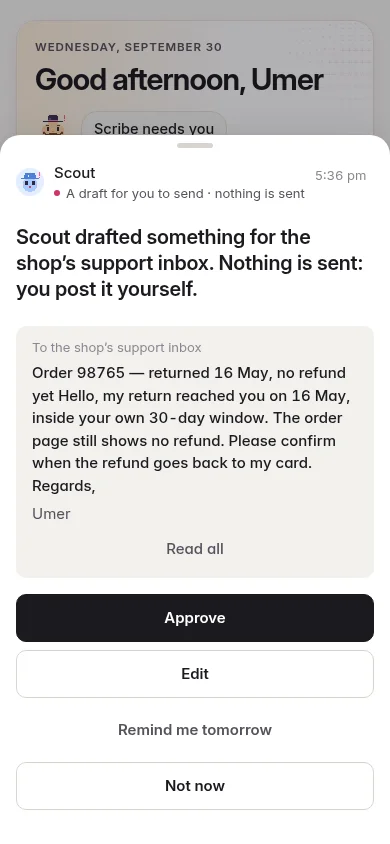
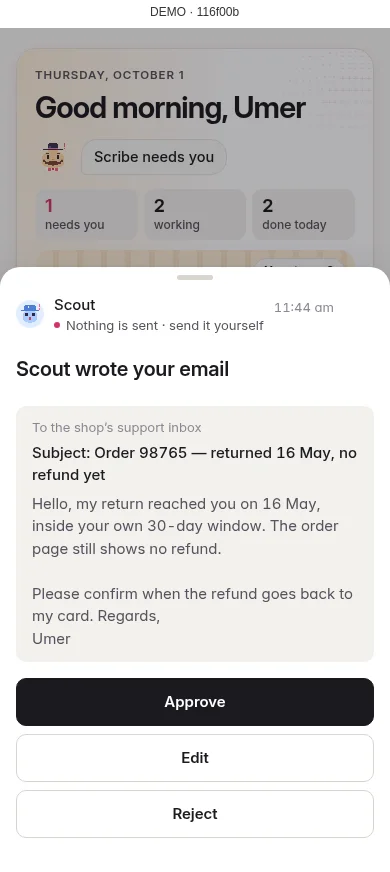
Make draft approval cards read like the message (#259)
* Fix draft card recipients, subjects and channel wording

* Refresh the demo draft approval card

* Route drafts the person sends through crew_draft in every helper's prompt

The first real email draft never reached a card: the helper followed older
job and skill lines that put drafts in a document. The shared helper prompt
now names crew_draft for emails, texts and social posts and says it wins over
those lines, and stops listing drafts as document material. The extra tool
description is dropped to keep the model-visible tool text in budget.

diff --git a/web/src/demo.ts b/web/src/demo.ts
@@ -53,9 +53,9 @@ const bots = [
 if (firstRun || variant === 'connect') for (const b of bots) Object.assign(b, { task: b.id === 'pip' && variant === 'connect' ? task(45, 'pip', "What's on this week?", 'needs_you') : null, step: undefined });
 
 const asks = [
-  { id: 7, bot: 'scribe', task_id: 43, kind: 'propose', at: now - 3 * min, member: 1, title: 'Scribe drafted a message for Aunty Sara', detail: {
-    words: 'Scribe drafted a message for Aunty Sara. Nothing is sent: you post it yourself.',
-    draft: { to: 'Aunty Sara' }, yes: 'Approve',
+  { id: 7, bot: 'scribe', task_id: 43, kind: 'propose', at: now - 3 * min, member: 1, title: 'Scribe wrote your text', detail: {
+    words: 'Scribe wrote your text.',
+    draft: { channel: 'text', to: 'Aunty Sara' }, yes: 'Approve',
     preview: { head: 'Draft for Aunty Sara', body: "Dear Aunty Sara, thank you so much for the lovely dinner on Sunday. Mum hasn't stopped talking about your biryani, and neither have I. Next time, it's at ours! With love, Umer" },
   } },
   { id: 10, bot: 'scout', task_id: null, kind: 'propose', at: now - 4 * min, member: 1, title: 'Scout would like to remember how to do this: Plan the week’s dinners, with a shopping list', detail: {
@@ -176,18 +176,18 @@ const state = {
         effect: 'send', press: true, spends: false,
         words: 'Scout wants to press “Start return” on shop.example, a site you signed it in to.',
         preview: { head: 'What Scout will press on shop.example', body: 'Espresso machine — delivered 12 May\nReturns are free within 30 days. Starting a return books a collection and tells the shop to expect the item.\nStart return' } } }]
-    : variant === 'chase' ? [{ id: 17, bot: 'scout', task_id: 48, kind: 'propose', at: now - 30_000, member: 1, title: 'Scout drafted something for the shop’s support inbox. Nothing is sent: you post it yourself.', detail: {
-        words: 'Scout drafted something for the shop’s support inbox. Nothing is sent: you post it yourself.',
-        draft: { to: 'the shop’s support inbox', path: 'files/chase-order-98765.md', sha: 'demo' }, yes: 'Approve',
-        preview: { head: 'Draft for the shop’s support inbox', body: 'Subject: Order 98765 — returned 16 May, no refund yet\n\nHello, my return reached you on 16 May, inside your own 30-day window. The order page still shows no refund.\n\nPlease confirm when the refund goes back to my card. Regards,\nUmer' } } }]
-    : variant === 'renewal' ? [{ id: 18, bot: 'scout', task_id: 49, kind: 'propose', at: now - 30_000, member: 1, title: 'Scout drafted something for the streaming service’s support inbox. Nothing is sent: you post it yourself.', detail: {
-        words: 'Scout drafted something for the streaming service’s support inbox. Nothing is sent: you post it yourself.',
-        draft: { to: 'the streaming service’s support inbox', path: 'files/cancel-family-plan.md', sha: 'demo' }, yes: 'Approve',
-        preview: { head: 'Draft for the streaming service’s support inbox', body: 'Subject: Streaming plan — please cancel before 14 June\n\nHello, my Streaming plan renews on 14 June at $18.99. Please cancel it from that date and confirm in writing that nothing further will be charged to my card.\n\nRegards,\nUmer' } } }]
-    : variant === 'paper' ? [{ id: 19, bot: 'scout', task_id: 50, kind: 'propose', at: now - 30_000, member: 1, title: 'Scout drafted something for the school office. Nothing is sent: you post it yourself.', detail: {
-        words: 'Scout drafted something for the school office. Nothing is sent: you post it yourself.',
-        draft: { to: 'the school office', path: 'files/reply-trip-form.md', sha: 'demo' }, yes: 'Approve',
-        preview: { head: 'Draft for the school office', body: 'Subject: Ayaan’s trip form — Friday\n\nHello, the signed trip form is in Ayaan’s bag this morning. He takes the packed-lunch option, and I can walk with the group if you are still short of adults.\n\nThank you,\nUmer' } } }]
+    : variant === 'chase' ? [{ id: 17, bot: 'scout', task_id: 48, kind: 'propose', at: now - 30_000, member: 1, title: 'Scout wrote your email.', detail: {
+        words: 'Scout wrote your email.',
+        draft: { channel: 'email', subject: 'Order 98765 — returned 16 May, no refund yet', to: 'the shop’s support inbox', path: 'files/chase-order-98765.md', sha: 'demo' }, yes: 'Approve',
+        preview: { head: 'Draft for the shop’s support inbox', body: 'Hello, my return reached you on 16 May, inside your own 30-day window. The order page still shows no refund.\n\nPlease confirm when the refund goes back to my card. Regards,\nUmer' } } }]
+    : variant === 'renewal' ? [{ id: 18, bot: 'scout', task_id: 49, kind: 'propose', at: now - 30_000, member: 1, title: 'Scout wrote your email.', detail: {
+        words: 'Scout wrote your email.',
+        draft: { channel: 'email', subject: 'Streaming plan — please cancel before 14 June', to: 'the streaming service’s support inbox', path: 'files/cancel-family-plan.md', sha: 'demo' }, yes: 'Approve',
+        preview: { head: 'Draft for the streaming service’s support inbox', body: 'Hello, my Streaming plan renews on 14 June at $18.99. Please cancel it from that date and confirm in writing that nothing further will be charged to my card.\n\nRegards,\nUmer' } } }]
+    : variant === 'paper' ? [{ id: 19, bot: 'scout', task_id: 50, kind: 'propose', at: now - 30_000, member: 1, title: 'Scout wrote your email.', detail: {
+        words: 'Scout wrote your email.',
+        draft: { channel: 'email', subject: 'Ayaan’s trip form — Friday', to: 'the school office', path: 'files/reply-trip-form.md', sha: 'demo' }, yes: 'Approve',
+        preview: { head: 'Draft for the school office', body: 'Hello, the signed trip form is in Ayaan’s bag this morning. He takes the packed-lunch option, and I can walk with the group if you are still short of adults.\n\nThank you,\nUmer' } } }]
     : variant === 'meals' ? [{ id: 20, bot: 'scout', task_id: 51, kind: 'permission', at: now - 30_000, member: 1, title: '', detail: {
         effect: 'spend', spends: true,
         words: 'Scout wants to place this order at grocer.example: Basmati rice 10 lb, Whole milk (1 gal) x2, Garlic, 2 kg. Total $43.10.',

diff --git a/test/moneyback.test.ts b/test/moneyback.test.ts
@@ -332,19 +332,20 @@ test('starting a return: the press asks first, on a card naming the button, the 
 
 test('the chase email is a draft in the person\u2019s name: the yes records the approval, and nothing is sent', async () => {
   const { db, crew, done } = setup();
-  const chase = 'Subject: Order 98765 — returned 16 May, no refund yet.\n\nHello, my return reached you on 16 May, inside your own 30-day window. The order page still shows no refund. Please confirm the payment. Regards,';
+  const chase = 'Hello, my return reached you on 16 May, inside your own 30-day window. The order page still shows no refund. Please confirm the payment. Regards,';
   const { task: t } = (await crew.post('scout', 'The shop is past its own window. Write the chase email, put it in front of me, and ask permission before anything more. '
     + `[tool crew_write {"path":"files/chase-order-98765.md","content":"${chase.replace(/\n/g, '\\n')}"}] `
-    + '[tool crew_draft {"path":"files/chase-order-98765.md","to":"the shop\u2019s support inbox"}] '
+    + '[tool crew_draft {"path":"files/chase-order-98765.md","channel":"email","subject":"Order 98765 — returned 16 May, no refund yet","to":"the shop\u2019s support inbox"}] '
     + '[tool crew_outcome {"worked": false, "seen": "The chase email is a draft on your card; reading it and sending it is yours."}]'))!;
   await until('working', () => crew.sessionOf('scout'));
   await until('the draft card', () => db.get("SELECT * FROM asks WHERE bot = 'scout' AND kind = 'propose' AND state = 'open'"));
   const ask = db.get("SELECT * FROM asks WHERE bot = 'scout' AND kind = 'propose' AND state = 'open'")!;
-  assert.match(ask.title, /drafted something for the shop.s support inbox/);
-  assert.match(ask.title, /Nothing is sent: you post it yourself/);
+  assert.match(ask.title, /wrote your email/);
+  assert.doesNotMatch(ask.title, /post it yourself/);
   const d = JSON.parse(ask.detail);
   assert.equal(d.draft.to, 'the shop\u2019s support inbox');
-  assert.match(d.preview.body, /Order 98765/, 'the card shows the whole draft before any yes');
+  assert.match(d.draft.subject, /Order 98765/, 'the email subject is separate');
+  assert.match(d.preview.body, /Hello, my return/, 'the card shows only the message');
   const view = crew.snapshot().asks.find((a: any) => a.id === ask.id)!;
   assert.equal(view.detail.yes, 'Approve', 'the yes approves the draft; it is never a send');
   await crew.answer(ask.id, { answer: 'allow' });
@@ -401,16 +402,16 @@ test('Home lists the renewal job with the money-back three, and says what it wai
 
 test('a renewal caught ahead of the bill: the warning plus a cancellation email that stays a draft', async () => {
   const { db, crew, done } = setup();
-  const letter = 'Subject: Family plan — please cancel before 14 June\n\nHello, my Family plan renews on 14 June at $18.99. Please cancel it from that date and confirm in writing that nothing further will be charged to my card. Regards, Umer';
+  const letter = 'Hello, my Family plan renews on 14 June at $18.99. Please cancel it from that date and confirm in writing that nothing further will be charged to my card. Regards, Umer';
   const { task: t } = (await crew.post('scout', 'ask permission: my streaming plan renews 14 June, write the cancellation and put it in front of me. '
     + `[tool crew_write {"path":"files/cancel-family-plan.md","content":"${letter.replace(/\n/g, '\\n')}"}] `
-    + '[tool crew_draft {"path":"files/cancel-family-plan.md","to":"the streaming service’s support inbox"}] '
+    + '[tool crew_draft {"path":"files/cancel-family-plan.md","channel":"email","subject":"Family plan — please cancel before 14 June","to":"the streaming service’s support inbox"}] '
     + '[tool crew_outcome {"worked": false, "seen": "Your Family plan renews 14 June at $18.99, ten days ahead; the cancellation is a draft on your card, so reading it and sending it is yours."}]'))!;
   await until('working', () => crew.sessionOf('scout'));
   await until('the draft card', () => db.get("SELECT * FROM asks WHERE bot = 'scout' AND kind = 'propose' AND state = 'open'"));
   const ask = db.get("SELECT * FROM asks WHERE bot = 'scout' AND kind = 'propose' AND state = 'open'")!;
-  assert.match(ask.title, /drafted something for the streaming service.s support inbox/);
-  assert.match(ask.title, /Nothing is sent: you post it yourself/);
+  assert.match(ask.title, /wrote your email/);
+  assert.doesNotMatch(ask.title, /post it yourself/);
   const d = JSON.parse(ask.detail);
   assert.match(d.preview.body, /renews on 14 June at \$18\.99/, 'the card holds the letter ahead of any yes');
   assert.match(d.preview.body, /confirm in writing/, 'it asks for the line that protects the person');

diff --git a/test/ui.test.ts b/test/ui.test.ts
@@ -178,21 +178,54 @@ test('a helper\'s draft waits in Needs you, named for who it goes to; the row\'s
   crew.recruit('scout', 'Scout', 'person');
   await crew.post('scout', 'Draft the reply on a card in front of me. '
     + '[tool crew_write {"path":"files/reply-trip-form.md","content":"Hello, the signed trip form is in Ayaan\'s bag this morning. Thank you, Umer"}] '
-    + '[tool crew_draft {"path":"files/reply-trip-form.md","to":"the school office"}]');
+    + '[tool crew_draft {"path":"files/reply-trip-form.md","channel":"email","subject":"Ayaan’s trip form — Friday","to":"the school office"}]');
   await until('the draft ask in the served view', () => crew.snapshot().asks.some((a: any) => a.kind === 'propose' && a.detail.draft));
   const s: Json = crew.snapshot();
   const ask = s.asks.find((a: any) => a.kind === 'propose' && a.detail.draft)!;
   assert.equal(ask.detail.draft.to, 'the school office', 'askView passes the draft through; without it Home drops the row');
   assert.equal(ask.detail.yes, 'Approve', 'the yes approves the draft; it is never a send');
   const c = A.card(ask, s);
-  assert.equal(c.head, 'Scout drafted a message for the school office', 'the card says what it is and who it is for, never "learned something"');
-  assert.deepEqual(c.choices.map((x: any) => x.label), ['Approve', 'Not now'], 'the no-send approval stays');
+  assert.equal(c.head, 'Scout wrote your email', 'the card says what it is and who it is for, never "learned something"');
+  assert.deepEqual(c.choices.map((x: any) => x.label), ['Approve', 'Reject'], 'the no-send approval stays');
   assert.match(c.preview?.body ?? '', /trip form/, 'the sheet the row opens shows the words');
   assert.equal(c.draftText, "Hello, the signed trip form is in Ayaan's bag this morning. Thank you, Umer", 'the words to change are the draft itself, not a tidied copy');
   const rows = A.needsYou(s);
-  assert.equal(rows.find((r: any) => r.id === ask.id)?.head, 'Scout drafted a message for the school office', 'the draft is a Needs-you row, ready to tap');
+  assert.equal(rows.find((r: any) => r.id === ask.id)?.head, 'Scout wrote your email', 'the draft is a Needs-you row, ready to tap');
   assert.ok(!rows.some((r: any) => /learned something/.test(r.head)));
   done();
+});
+
+test('draft cards keep the recipient, email subject and exact message separate across channels', async () => {
+  const { setup: lab, settled } = await import('./lab.ts');
+  const { crew, db, done } = lab();
+  crew.onboard('sir');
+  crew.recruit('scribe', 'Scribe', 'person');
+  try {
+    for (const [channel, to, subject, message] of [
+      ['email', 'returns@shop.example', 'Order 98765 refund', 'Hello,\n\nPlease confirm my refund.\n\nThanks,\nUmer'],
+      ['email', 'office@school.example', 'Friday trip', 'Hello,\n\nThe form is in the bag.\n\nThanks,\nUmer'],
+      ['text', 'Sara', '', 'Can we meet at 6?'],
+      ['post', 'X', '', 'One small win today.\n\nThe seedlings are up. #garden'],
+    ]) {
+      const tool = (name: string, args: Json) => `[tool ${name} ${JSON.stringify(args)}]`;
+      const { task } = (await crew.post('scribe', 'Recommended: X1. Draft only. This is the TASK TITLE. '
+        + tool('crew_write', { path: 'files/message.md', content: message }) + ' '
+        + tool('crew_draft', { path: 'files/message.md', channel, to, ...(subject ? { subject } : {}) })))!;
+      await settled(db, task);
+      const state = crew.snapshot();
+      const ask = state.asks.find((a: Json) => a.detail.draft?.to === to)!;
+      const c = A.card(ask, state);
+      assert.equal(c.head, `Scribe wrote your ${channel}`);
+      assert.equal(c.words, c.head, 'the headline never repeats job text or recipient');
+      assert.equal(c.draftTo, to);
+      assert.equal(c.draftSubject, subject || undefined);
+      assert.equal(c.preview?.body, message, 'paragraphs, first line and hashtags stay intact');
+      assert.equal(c.draftText, message, 'Edit starts with exactly the message on the card');
+      assert.equal(c.status, `Nothing is sent · ${channel === 'post' ? 'post' : 'send'} it yourself`);
+      assert.deepEqual(c.choices.map((x) => x.label), ['Approve', 'Reject']);
+    }
+    assert.equal(crew.snapshot().asks.filter((a: Json) => a.detail.draft).length, 4, 'two email cards with the same short headline both arrive');
+  } finally { done(); }
 });
 
 test("a job proposal card names the helper's proposed job, never a memory heading", async () => {

diff --git a/src/crew.ts b/src/crew.ts
@@ -80,7 +80,6 @@ export function quietNow(quiet: string | null | undefined, at = new Date()) {
 }
 
 const sha = (s: string) => createHash('sha256').update(s).digest('hex');
-/** A draft in the person's name fits on its card whole, so what they approve (or change) is all of it. */
 const DRAFT_CAP = 20_000;
 const clean = (s: unknown, n: number) => String(s ?? '').replace(/\s+/g, ' ').trim().slice(0, n);
 /** What each batch item hears: its one item and the shared question. The parent's own prompt stays out of it,
@@ -1996,16 +1995,17 @@ export class Crew {
           const change = disk.remember(this.cfg, { bot: everyone ? null : botId }, String(p.text ?? ''), String(p.replaces ?? ''));
           this.db.event('memory.learned', botId, { task: task(), text: change.added.slice(2, 202), ...(everyone ? { everyone } : {}), ...change });
         }),
-      tool('crew_draft', 'Put a draft that would go out in the person\'s name (a reply, a post, an email) in front of them on a card. Nothing is ' +
-        'sent either way: they post it themselves if they approve. `path`: the draft in your folder; `to`: where it would go ("muxr issue #208").',
-        { path: Type.String(), to: Type.String() }, (p) => {
+      tool('crew_draft', 'Show ONE finished message for approval; nothing is sent. `path`: a file containing ONLY the message body, with its line breaks, no subject, headings, variants or planning notes. ' +
+        '`channel`: email, text, post (social), or reply (a site). `to`: the actual recipient name/address or site, NEVER a job title. `subject`: required for email, separate from the body.',
+        { path: Type.String(), channel: Type.Union(['email', 'text', 'post', 'reply'].map((x) => Type.Literal(x))), to: Type.String(), subject: Type.Optional(Type.String()) }, (p) => {
           const full = disk.insideBot(this.cfg, botId, String(p.path ?? ''));
           if (!existsSync(full)) throw new Error(`no file at ${p.path}`);
-          const text = readFileSync(full, 'utf8').trim(), to = clean(p.to, 80), b = this.bot(botId)!;
+          const text = readFileSync(full, 'utf8').trim(), to = clean(p.to, 80), channel = String(p.channel), subject = clean(p.subject, 160);
+          if (!to || !['email', 'text', 'post', 'reply'].includes(channel) || (channel === 'email' && !subject)) throw new Error('give the channel, recipient and email subject separately');
           if (!text) throw new Error('the draft is empty');
           if (text.length > DRAFT_CAP) throw new Error(`the draft is over ${DRAFT_CAP} characters; shorten it`);
-          return this.propose(botId, `${b.display} drafted something for ${to}. Nothing is sent: you post it yourself.`,
-            { draft: { to, path: full.slice(disk.botDir(this.cfg, botId).length + 1), sha: sha(text) }, preview: { head: `Draft for ${to}`, body: text } });
+          return this.propose(botId, `${this.bot(botId)!.display} wrote your ${channel}.`,
+            { draft: { channel, to, subject, path: full.slice(disk.botDir(this.cfg, botId).length + 1), sha: sha(text) }, preview: { body: text } });
         }),
       tool('crew_verify', 'Have Crewhouse itself check a fix you propose to a git checkout in your folder: it applies only the check (`tests`, the ' +
         'paths in the patch that test the fix) to `base` and runs `command`, which must fail; then the whole patch, which must pass; it runs in a ' +
@@ -2155,7 +2155,7 @@ export class Crew {
   /** A suggestion card: nothing changes until the person says yes, and the bot carries on meanwhile. */
   private propose(botId: string, title: string, detail: Row) {
     const t = this.activeTask(botId);
-    if (!this.db.get("SELECT 1 FROM asks WHERE bot = ? AND kind = 'propose' AND state = 'open' AND title = ?", botId, title)) {
+    if (!this.db.get("SELECT 1 FROM asks WHERE bot = ? AND kind = 'propose' AND state = 'open' AND title = ? AND COALESCE(json_extract(detail, '$.draft'), '') = ?", botId, title, detail.draft ? JSON.stringify(detail.draft) : '')) {
       this.openAsk(botId, undefined, title, { ...detail, task: t?.id }, 'propose');
     }
     return { asked: true, note: 'The person sees your suggestion on a card. Carry on; nothing changes unless they say yes.' };

diff --git a/src/bots.ts b/src/bots.ts
@@ -417,7 +417,7 @@ export function systemPrompt(cfg: Config, id: string, chief: boolean) {
     'which the app asks for you. If a tool call is refused, adapt and carry on, or say plainly what you need.\n' +
     '## How you answer\n' +
     '- Lead with the answer or the result, in one or two sentences. Nothing before it: no restating the request, no preamble.\n' +
-    '- Then at most five short bullets. Anything longer than about 120 words, or anything the person will keep, use or edit (a plan, a report, drafts, a table), goes in a document with crew_document; your reply is its headline and what to look at first.\n' +
+    '- Then at most five short bullets. Anything longer than about 120 words, or anything the person will keep, use or edit (a plan, a report, a table), goes in a document with crew_document; your reply is its headline and what to look at first.\n' +
     '- Write for a chat bubble: plain sentences, "- " bullets, **bold** on one phrase at most. No headings, tables, code or links in chat; name a source in words ("Stripe\'s pricing page") and keep links in the document.\n' +
     '- Be decisive: recommend one option and say why in a clause. When you must assume something, say it in a few words ("assuming two adults") and carry on.\n' +
     '- A caveat only where being wrong costs the person: money, health, legal, safety, a price or date they will act on, or something about to be sent, paid or deleted. Then one specific line: what to check, and where. Never "I could not verify", "I did not test", "unverified" or "as an AI". Where you looked and what you skipped goes at the end of the document, not in chat.\n' +
@@ -426,5 +426,5 @@ export function systemPrompt(cfg: Config, id: string, chief: boolean) {
     (chief ? 'Crew tools for the crew. Calendar and mail: read the person\'s own and answer yourself; crew_connect if it isn\'t connected; changes go on a card or to a helper.' :
       `The person's own folders are in ${homedir()} (Documents, Pictures, Downloads…). Your shell can't see them; reach them with read and write, ` +
       'or crew_copy to put a copy of something you made there. Crewhouse asks the person first, so just go ahead and call the tool.\n' +
-      'Your crew tools: crew_report (a one-line progress note), crew_deliver (register a finished file), crew_workbook (a finished spreadsheet, which Crewhouse writes itself from your spec — never make the file yourself), crew_document (a finished document, same rule), crew_copy (a copy into the person\'s folders), crew_remember (a lasting preference of the person), crew_learn (ask to keep a skill when the person explicitly says to follow a way of working from now on, even the first time, or after doing the same kind of job at least twice; never for an ordinary one-off).');
+      'Your crew tools: crew_report (a one-line progress note), crew_deliver (register a finished file), crew_workbook (a finished spreadsheet, which Crewhouse writes itself from your spec — never make the file yourself), crew_document (a finished document, same rule), crew_draft (an email, text or social post they send: only the finished message in `files/`, its `channel`, real recipient as `to`, an email\'s `subject`; never a document, whatever a job or skill says), crew_copy (a copy into the person\'s folders), crew_remember (a lasting preference of the person), crew_learn (ask to keep a skill when the person explicitly says to follow a way of working from now on, even the first time, or after doing the same kind of job at least twice; never for an ordinary one-off).');
 }

diff --git a/web/src/adapter.ts b/web/src/adapter.ts
@@ -24,7 +24,7 @@ export type Card = {
   /** One ask-card layout for every kind (§4.4): the kind changes only the status line under the helper's name,
    *  the evidence block and the button words. `evidence` picks the sunken block — a form's or a job's
    *  label-over-value lines, or a draft's to/subject/body — an order is a `review`, anything else a plain preview. */
-  status: string; evidence?: 'lines' | 'draft'; draftTo?: string;
+  status: string; evidence?: 'lines' | 'draft'; draftTo?: string; draftSubject?: string;
   /** A draft's own words, unscrubbed: the person may change them before Approve, and their version is what is kept. */
   draftText?: string;
 };
@@ -567,12 +567,17 @@ export function card(a: Json, state: Json): Card {
       preview: { head: `${crewName(state, d.job.bot)}'s job`, body: labels.map((label, i) => `${label}: ${plain(d.job[keys[i]])}`).join('\n\n') },
       choices: [{ label: 'Use it', body: { answer: 'allow', scope: 'once' }, primary: true }, { label: 'Not now', body: { answer: 'deny' } }] };
   }
+  if (a.kind === 'propose' && d.draft) {
+    const head = `${name} wrote your ${d.draft.channel}`;
+    const body = String(d.preview?.body ?? '').trim();
+    return { ...base, kind: 'ok', status: `Nothing is sent · ${d.draft.channel === 'post' ? 'post' : 'send'} it yourself`, evidence: 'draft',
+      draftTo: plain(d.draft.to), draftSubject: plain(d.draft.subject) || undefined, draftText: body, head, words: head, preview: { body },
+      choices: [{ label: 'Approve', body: { answer: 'allow', scope: 'once' }, primary: true }, { label: 'Reject', body: { answer: 'deny' } }] };
+  }
   if (a.kind === 'propose') {
     // A suggestion: a skill a helper would like to keep, or a new personality from Chief. Nothing changes without a yes.
-    // A helper's draft is a message in the person's name: the card says who it's for, and approving never sends it.
-    return { ...base, kind: 'ok', status: d.draft ? 'A draft for you to send · nothing is sent' : 'Would like to remember this', evidence: d.draft ? 'draft' : undefined, draftTo: d.draft ? plain(d.draft.to) : undefined,
-      draftText: d.draft ? String(d.preview?.body ?? '').trim() || undefined : undefined,
-      head: d.draft ? `${name} drafted a message for ${plain(d.draft.to)}` : a.bot === 'chief' ? 'Chief has a suggestion' : `${name} learned something`, words: plain(d.words ?? `${name} has a suggestion.`),
+    return { ...base, kind: 'ok', status: 'Would like to remember this',
+      head: a.bot === 'chief' ? 'Chief has a suggestion' : `${name} learned something`, words: plain(d.words ?? `${name} has a suggestion.`),
       preview: d.preview ? { head: d.preview.head ? plain(d.preview.head) : undefined, body: plain(d.preview.body ?? '') } : undefined,
       choices: [{ label: d.yes ? plain(d.yes) : a.bot === 'chief' ? 'Yes, change it' : 'Yes, keep it', body: { answer: 'allow', scope: 'once' }, primary: true }, { label: 'Not now', body: { answer: 'deny' } }] };
   }

diff --git a/test/support.test.ts b/test/support.test.ts
@@ -29,13 +29,13 @@ test('Chief sees what each template knows, and a drafted reply waits on a card t
   const dir = join(disk.botDir(cfg, 'desk'), 'files', 'support', '208');
   mkdirSync(dir, { recursive: true });
   writeFileSync(join(dir, 'reply.md'), 'Thanks for the two-day log. Headless, Herdr reports idle, not done (apps/host/src/x.ts:12@abc).\n');
-  const draft = call('crew_draft', { path: 'files/support/208/reply.md', to: 'muxr issue #208' });
+  const draft = call('crew_draft', { path: 'files/support/208/reply.md', channel: 'reply', to: 'muxr issue #208' });
   const card = () => db.get("SELECT * FROM asks WHERE bot = 'desk' AND kind = 'propose' AND state = 'open'");
   const t = (await crew.post('desk', `draft it ${draft}`))!.task;
   await settled(db, t);
   const view = crew.snapshot().asks.find((a: any) => a.id === card()!.id)!;
   assert.equal(view.detail.yes, 'Approve');
-  assert.match(view.detail.words, /^Desk drafted something for muxr issue #208\. Nothing is sent/);
+  assert.match(view.detail.words, /^Desk wrote your reply/);
   assert.match(view.detail.preview.body, /Herdr reports idle/);
   await crew.answer(card()!.id, { answer: 'deny' });
   assert.equal(events(db, 'draft.rejected')[0].to, 'muxr issue #208');
@@ -60,7 +60,7 @@ test('the person can change a draft before Approve: their words are the ones kep
   const card = () => db.get("SELECT * FROM asks WHERE bot = 'desk' AND kind = 'propose' AND state = 'open'");
   const draft = async (words: string) => {
     writeFileSync(file, words);
-    await settled(db, (await crew.post('desk', `draft it ${call('crew_draft', { path: 'files/reply.md', to: 'the school office' })}`))!.task);
+    await settled(db, (await crew.post('desk', `draft it ${call('crew_draft', { path: 'files/reply.md', channel: 'text', to: 'the school office' })}`))!.task);
     return card()!.id;
   };
   let id = await draft('Hello, the form is in the bag.\n');
@@ -241,7 +241,7 @@ test('the validator checks a run against crewd\'s record: issues read, citations
   };
   const run = async (n: number, fetch: string) => {
     const f = (p: string) => call('crew_deliver', { path: `files/support/${n}/${p}` });
-    const t = (await crew.post('desk', `${fetch} ${f('triage.md')} ${f('reply.md')} ${call('crew_draft', { path: `files/support/${n}/reply.md`, to: `app issue #${n}` })}`))!.task;
+    const t = (await crew.post('desk', `${fetch} ${f('triage.md')} ${f('reply.md')} ${call('crew_draft', { path: `files/support/${n}/reply.md`, channel: 'reply', to: `app issue #${n}` })}`))!.task;
     await settled(db, t);
     return t;
   };

diff --git a/mobile/App.tsx b/mobile/App.tsx
@@ -896,12 +896,10 @@ function AskEvidence({ c, open, readAll }: { c: A.Card; open: boolean; readAll?:
       : <T key={i}>{l}</T>;
   })}</View>;
   if (c.evidence === 'draft') {
-    const at = body.indexOf('\n');
     return <View style={[s.ev, { backgroundColor: t.sunken }]}>
       {!!c.draftTo && <T tone="mute" style={s.small}>To {c.draftTo}</T>}
-      <T style={{ fontWeight: '500' }}>{(at < 0 ? body : body.slice(0, at)).replace(/^Subject: /, '')}</T>
-      <T tone="ink2" lines={open ? undefined : 4}>{(at < 0 ? '' : body.slice(at + 1)).trim()}</T>
-      {!open && readAll}
+      {!!c.draftSubject && <T style={{ fontWeight: '500' }}>Subject: {c.draftSubject}</T>}
+      <ScrollView style={{ maxHeight: 240 }} nestedScrollEnabled><T tone="ink2">{body}</T></ScrollView>
     </View>;
   }
   if (c.lines) return <View style={[s.ev, { backgroundColor: t.sunken }]}>{c.lines.map((l, i) =>
@@ -1054,9 +1052,10 @@ function AskSheet({ c, who, chiefSays, canAct, onClose }: { c: A.Card; who: A.He
           {!!chiefSays && <View style={s.row}><Face who="chief" size={20} /><T tone="ink2" style={{ flex: 1 }}><Text style={s.b}>Chief:</Text> {A.plain(chiefSays)}</T></View>}
           {oops && <T tone="pinkInk" style={s.small}>That didn't go through. Try again.</T>}
           {canAct ? <>
+            {c.evidence === 'draft' && yes && <Btn go big label={yes.label} disabled={edit.empty} onPress={() => act(edit.yes(yes.body))} />}
             {edit.can && <Btn big label={edit.editing ? 'Use the original' : 'Edit'} onPress={edit.toggle} />}
             {rest.map((x) => <Btn key={x.label} big label={x.label} onPress={() => act(x.body)} />)}
-            {yes && <Btn go big label={yes.label} disabled={edit.empty} onPress={() => act(edit.yes(yes.body))} />}
+            {c.evidence !== 'draft' && yes && <Btn go big label={yes.label} disabled={edit.empty} onPress={() => act(edit.yes(yes.body))} />}
           </> : <Btn big label="Close" onPress={onClose} />}
           {always && canAct && <View style={{ borderTopWidth: StyleSheet.hairlineWidth, borderTopColor: t.line, paddingTop: 10 }}><Btn ghost big label={always.label} onPress={() => act(always.body)} /></View>}
           {c.kind === 'spend' && <T tone="mute" style={[s.small, { textAlign: 'center' }]}>Anything that costs money asks you every time.</T>}

diff --git a/src/openclaw/runtime.ts b/src/openclaw/runtime.ts
@@ -27,7 +27,6 @@ const ME = 'm1';
 /** The engine-side name of a Crewhouse tool and back: only the shell differs. */
 const crewName = (tool: string) => tool === 'shell' ? 'bash' : tool;
 
-// Model-visible tools: `shell` avoids the engine rewriting `bash` to its own exec before the gate.
 const args = { type: 'object', properties: { args: { type: 'array', items: { type: 'string' } } }, required: ['args'], additionalProperties: false };
 const SCHEMAS: Record<string, object> = {
   shell: { type: 'object', properties: { command: { type: 'string' } }, required: ['command'], additionalProperties: false },
@@ -44,6 +43,7 @@ const SCHEMAS: Record<string, object> = {
       items: { type: 'object', additionalProperties: true }, minItems: 1 },
   }, required: ['name', 'blocks'], additionalProperties: false },
   crew_report: { type: 'object', properties: { text: { type: 'string' } }, required: ['text'], additionalProperties: false },
+  crew_draft: { type: 'object', properties: { path: { type: 'string' }, channel: { type: 'string', enum: ['email', 'text', 'post', 'reply'] }, to: { type: 'string' }, subject: { type: 'string' } }, required: ['path', 'channel', 'to'], additionalProperties: false },
   crew_batch: { type: 'object', properties: { question: { type: 'string' }, items: { type: 'array', items: { type: 'string' } } }, required: ['question', 'items'], additionalProperties: false },
 };
 const ABOUT: Record<string, string> = {
@@ -63,7 +63,6 @@ export const TOOLS: ToolSpec[] = ['shell', 'browser', 'calendar', 'mail', 'crew_
 ].map((name) => ({ name, description: ABOUT[name] ?? `Crewhouse ${name.slice(5).replaceAll('_', ' ')}. The person sees the result in their crew.`,
   parameters: SCHEMAS[name] ?? { type: 'object', additionalProperties: true } }));
 
-/** Crewhouse's engine config, merged under the kit's invariants on every prepare. */
 const CONFIG = {
   // An empty allow list: the engine otherwise narrows to its model map, and the person's other providers vanish.
   agents: { defaults: { sandbox: { mode: 'off' }, modelPolicy: { allow: [] } } },

diff --git a/test/family.test.ts b/test/family.test.ts
@@ -48,19 +48,19 @@ test('Home lists the family desk and the meals beside the money ones, each sayin
   done();
 });
 
-const reply = 'Subject: Ayaan’s trip form — Friday\\n\\nHello, the signed trip form is in Ayaan’s bag this morning. He takes the packed-lunch option, and I can walk with the group if you are still short of adults.\\n\\nThank you,\\nUmer';
+const reply = 'Hello, the signed trip form is in Ayaan’s bag this morning. He takes the packed-lunch option, and I can walk with the group if you are still short of adults.\\n\\nThank you,\\nUmer';
 
 test('a reply to the school is a draft card: the yes approves it, nothing is sent, and the job says so', async () => {
   const { db, crew, done } = setup();
   const { task: t } = (await crew.post('scout', 'The school wants the trip form back. Sort it: the reply on a card in front of me, and ask permission before anything more. '
     + `[tool crew_write {"path":"files/reply-trip-form.md","content":"${reply}"}] `
-    + '[tool crew_draft {"path":"files/reply-trip-form.md","to":"the school office"}] '
+    + '[tool crew_draft {"path":"files/reply-trip-form.md","channel":"email","subject":"Ayaan’s trip form — Friday","to":"the school office"}] '
     + '[tool crew_outcome {"worked": true, "seen": "The reply to the school office is a draft on your card; posting it is yours."}]'))!;
   await until('working', () => crew.sessionOf('scout'));
   await until('the draft card', () => db.get("SELECT * FROM asks WHERE bot = 'scout' AND kind = 'propose' AND state = 'open'"));
   const ask = db.get("SELECT * FROM asks WHERE bot = 'scout' AND kind = 'propose' AND state = 'open'")!;
-  assert.match(ask.title, /drafted something for the school office/);
-  assert.match(ask.title, /Nothing is sent: you post it yourself/);
+  assert.match(ask.title, /wrote your email/);
+  assert.doesNotMatch(ask.title, /post it yourself/);
   const d = JSON.parse(ask.detail);
   assert.equal(d.draft.to, 'the school office');
   assert.match(d.preview.body, /trip form/, 'the card shows the whole reply before any yes');

diff --git a/test/unit.test.ts b/test/unit.test.ts
@@ -407,6 +407,10 @@ test('bots on disk: persona rename, capped notes, folder confinement, slugs', ()
   assert.ok(!existsSync(join(dir, 'CLAUDE.md')) && !existsSync(join(dir, '.claude')), 'no CLI wiring in a bot folder');
   assert.match(disk.systemPrompt(cfg, 'frames', false), /Your id in Crewhouse is frames\./);
   assert.match(disk.systemPrompt(cfg, 'frames', false), /Never introduce yourself as a new assistant or ask the person to name you after a task/);
+  // A message the person sends themselves goes on a draft card, whatever an older job or skill says; Chief has no crew_draft.
+  assert.match(disk.systemPrompt(cfg, 'frames', false), /crew_draft \(an email, text or social post[^)]*never a document, whatever a job or skill says\)/);
+  assert.doesNotMatch(disk.systemPrompt(cfg, 'frames', false), /drafts, a table\), goes in a document/);
+  assert.doesNotMatch(disk.systemPrompt(cfg, 'chief', true), /crew_draft/);
   assert.throws(() => crew.recruit('reel', 'Frames', 'person'), /already a bot/);
   assert.throws(() => crew.recruit('chief', 'Deputy', 'person'), /only one Chief/);
   const mine = { bot: 'frames' };

diff --git a/web/src/parts.tsx b/web/src/parts.tsx
@@ -525,12 +525,10 @@ function AskEvidence({ c, open, readAll }: { c: Card; open: boolean; readAll: Re
     return at > 0 ? <div key={i} className="ev-line"><span>{l.slice(0, at)}</span><b>{l.slice(at + 2)}</b></div> : <div key={i}>{l}</div>;
   })}</div>;
   if (c.evidence === 'draft') {
-    const at = body.indexOf('\n');
     return <div className="ev">
       {c.draftTo && <div className="ev-to">To {c.draftTo}</div>}
-      <b className="ev-subject">{(at < 0 ? body : body.slice(0, at)).replace(/^Subject: /, '')}</b>
-      <div className={`ev-body${open ? '' : ' clamp4'}`}>{(at < 0 ? '' : body.slice(at + 1)).trim()}</div>
-      {!open && readAll}
+      {c.draftSubject && <b className="ev-subject">Subject: {c.draftSubject}</b>}
+      <div className="ev-body draft-body">{body}</div>
     </div>;
   }
   if (c.lines) return <div className="ev">{c.lines.map((l, i) => <div key={i} className={i && c.kind === 'routine' ? 'ev-quiet' : undefined}>{l}</div>)}</div>;
